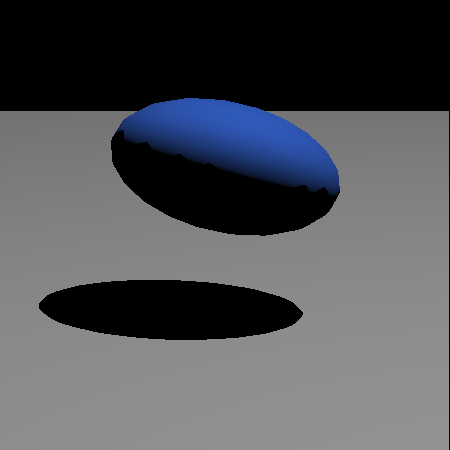
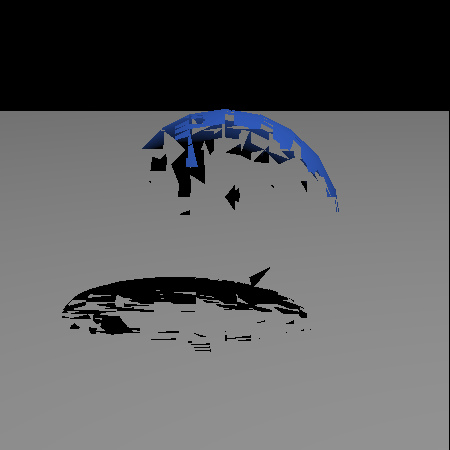
Minor changes; still no working 1st sphere in squishedSpheres

Changed region(s): [[0.2489, 0.2178, 0.7778, 0.5289], [0.0933, 0.5911, 0.6844, 0.7778]]

diff --git a/ray/surface/Sphere.java b/ray/surface/Sphere.java
@@ -58,7 +58,7 @@ public class Sphere extends Surface {
                 t = t2;
             if (t > rayIn.end || t == Double.POSITIVE_INFINITY)
                 return false;
-                        
+ 
             Point3 p = new Point3(); // intersection point
             rayIn.evaluate(p, t);
             outRecord.location.set(p);
@@ -91,6 +91,7 @@ public class Sphere extends Surface {
         Vector3 offs = new Vector3(radius, radius, radius);
         minBound.sub(offs);
         maxBound.add(offs);
+        
         transformBoundingBox();
     }
 

diff --git a/ray/surface/Surface.java b/ray/surface/Surface.java
@@ -117,6 +117,7 @@ public abstract class Surface {
      * @param vector Input vector
      */
     public void transformVector(Vector3 vector) {
+    	vector.normalize();
     	tMatTInv.rightMultiply(vector);
     	vector.normalize();
     }
@@ -131,9 +132,9 @@ public abstract class Surface {
      * Transform Bounding Box
      */
     public void transformBoundingBox() {
+    	transformPoint(averagePosition);
     	transformPoint(minBound);
     	transformPoint(maxBound);
-    	transformPoint(averagePosition);
     }
 
 }
